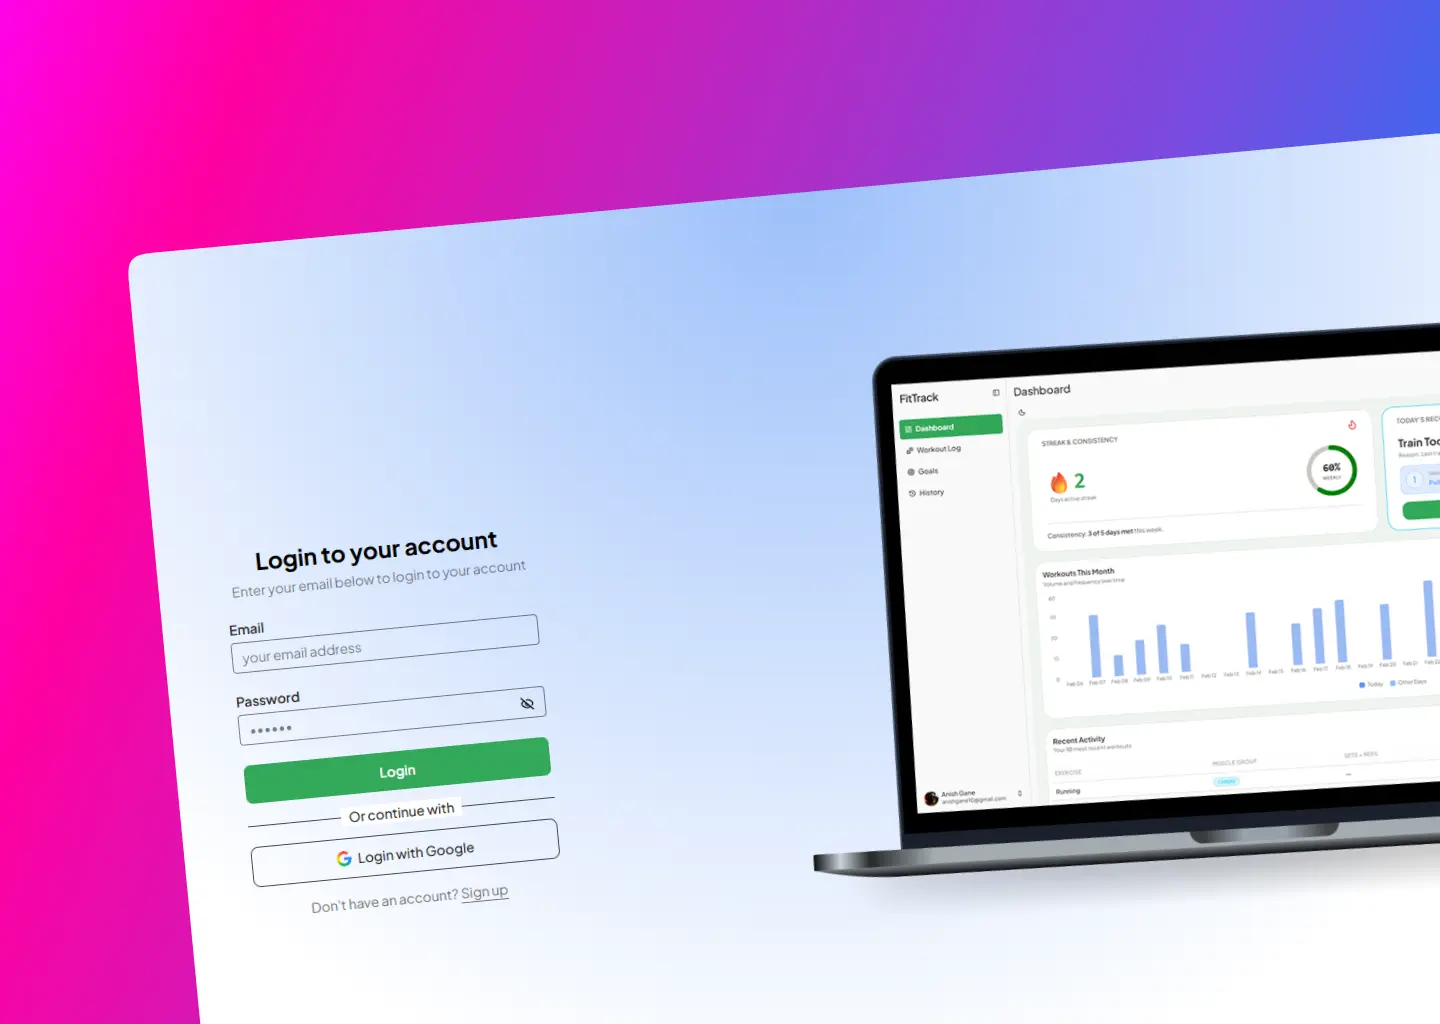
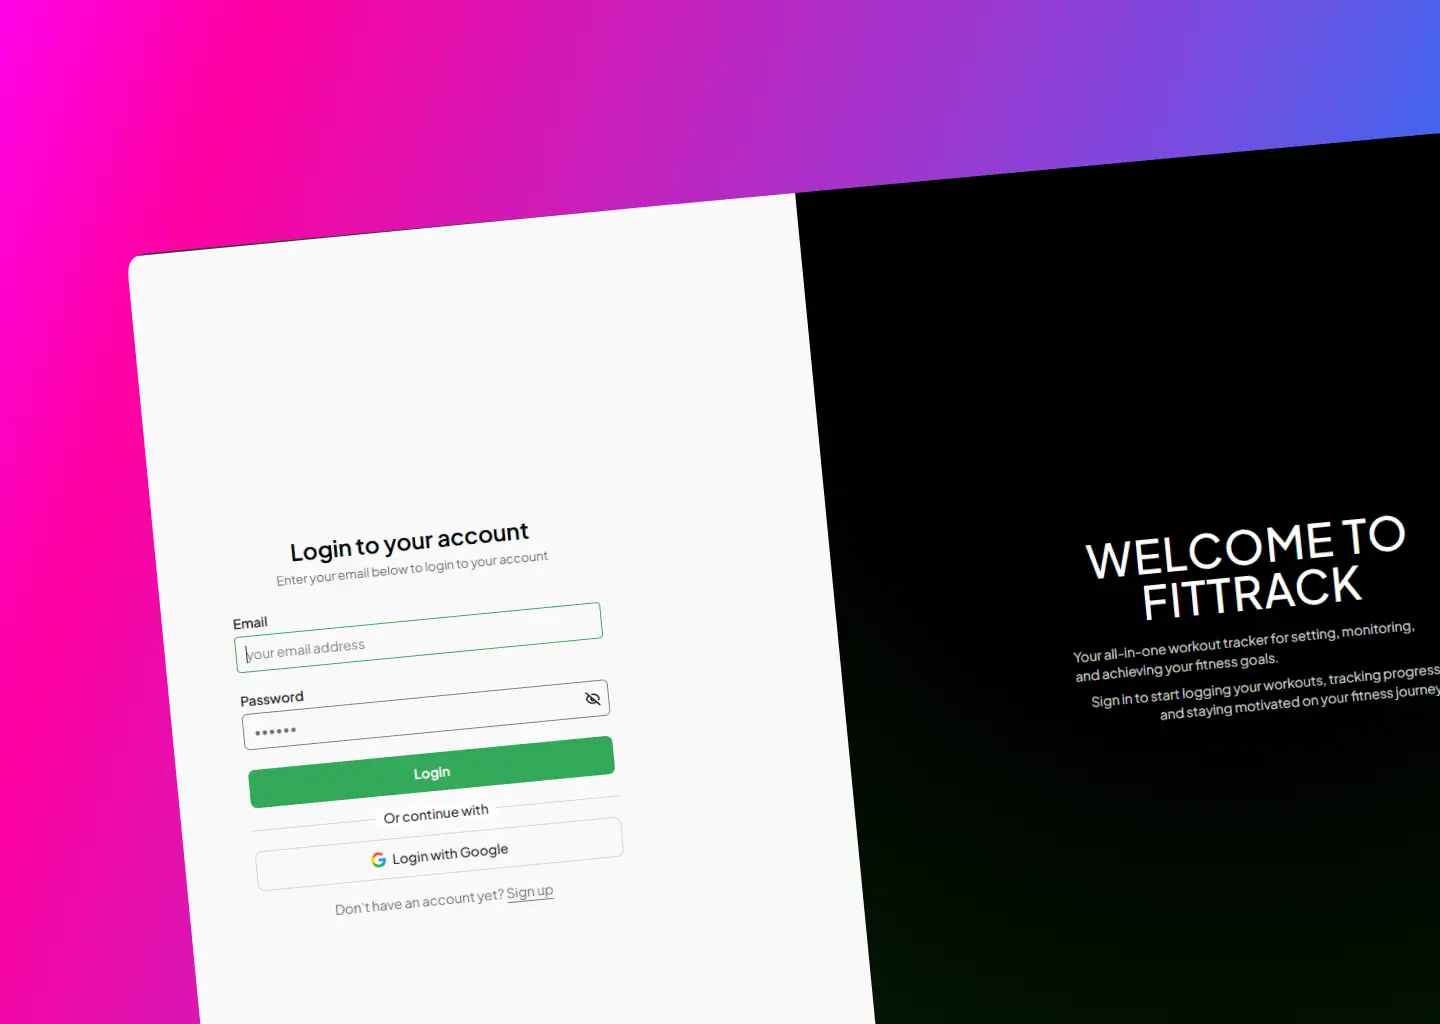
Remove outdated FitTrack image assets and update LinkToolTip component to fix positioning; adjust Quote component styling for improved layout consistency.

diff --git a/src/components/ToolTips/LinkToolTip.tsx b/src/components/ToolTips/LinkToolTip.tsx
@@ -1,9 +1,9 @@
-const LinkToolTip = ({ label, position = "top" }: { label: string, position?: string }) => {
+const LinkToolTip = ({ label }: { label: string }) => {
   return (
-    <div className={`absolute left-1/2 -translate-x-1/2 -${position}-[46px] opacity-0 group-hover:opacity-100 pointer-events-none transition-opacity duration-200 px-3 py-2 rounded-lg shadow-md text-xs font-medium bg-neutral-8 text-neutral-200 dark:text-neutral-800 whitespace-nowrap z-20`}>
+    <div className={`absolute left-1/2 -translate-x-1/2 -top-[46px] opacity-0 group-hover:opacity-100 pointer-events-none transition-opacity duration-200 px-3 py-2 rounded-lg shadow-md text-xs font-medium bg-neutral-8 text-neutral-200 dark:text-neutral-800 whitespace-nowrap z-20`}>
       {label}
 
-      <div className={`absolute left-1/2 -translate-x-1/2 ${position}-full ${position == "bottom" ? "rotate-180" : ""} size-0 border-l-6 border-r-6 border-t-8 border-l-transparent border-r-transparent border-t-neutral-8`} />
+      <div className={`absolute left-1/2 -translate-x-1/2 top-full size-0 border-l-6 border-r-6 border-t-8 border-l-transparent border-r-transparent border-t-neutral-8`} />
     </div>
   );
 };

diff --git a/src/components/Quote.tsx b/src/components/Quote.tsx
@@ -10,7 +10,7 @@ const Quote = ({ quote, source }: { quote: string; source: string }) => {
       initial="rest"
       whileHover='move'
       animate="rest"
-      className="relative sm:mt-14 sm:mb-8 overflow-hidden rounded-xl bg-white/3 border border-neutral-300 px-2 py-10 sm:py-14 text-2xl font-semibold text-neutral-900 dark:border-neutral-900 dark:text-neutral-100">
+      className="relative sm:mt-4 sm:mb-8 overflow-hidden rounded-xl bg-white/3 border border-neutral-300 px-2 py-10 sm:py-14 text-2xl font-semibold text-neutral-900 dark:border-neutral-900 dark:text-neutral-100">
       {/* SVG Background */}
       <div
         className="absolute sm:top-2 left-5 size-10 -translate-x-1/2 opacity-25">
